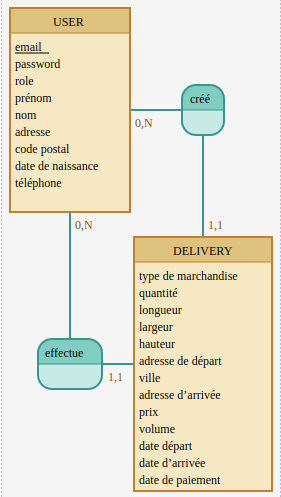
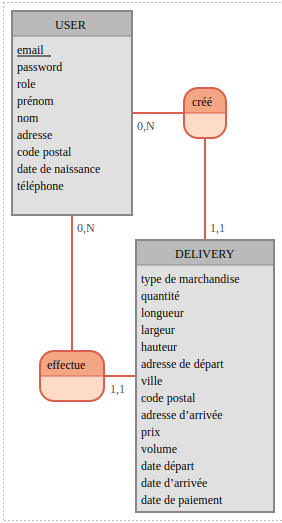
Joi & MCD updated

diff --git a/app/validations/schemas/delivery.schema.js b/app/validations/schemas/delivery.schema.js
@@ -26,7 +26,7 @@ const schemas = {
     width: Joi.number().integer().min(1),
     height: Joi.number().integer().min(1),
     departure_address: Joi.string(),
-    zipcode: Joi.string().required(),
+    zipcode: Joi.string(),
     city: Joi.string().required(),
     arrival_address: Joi.string(),
     departure_date: Joi.date(),
